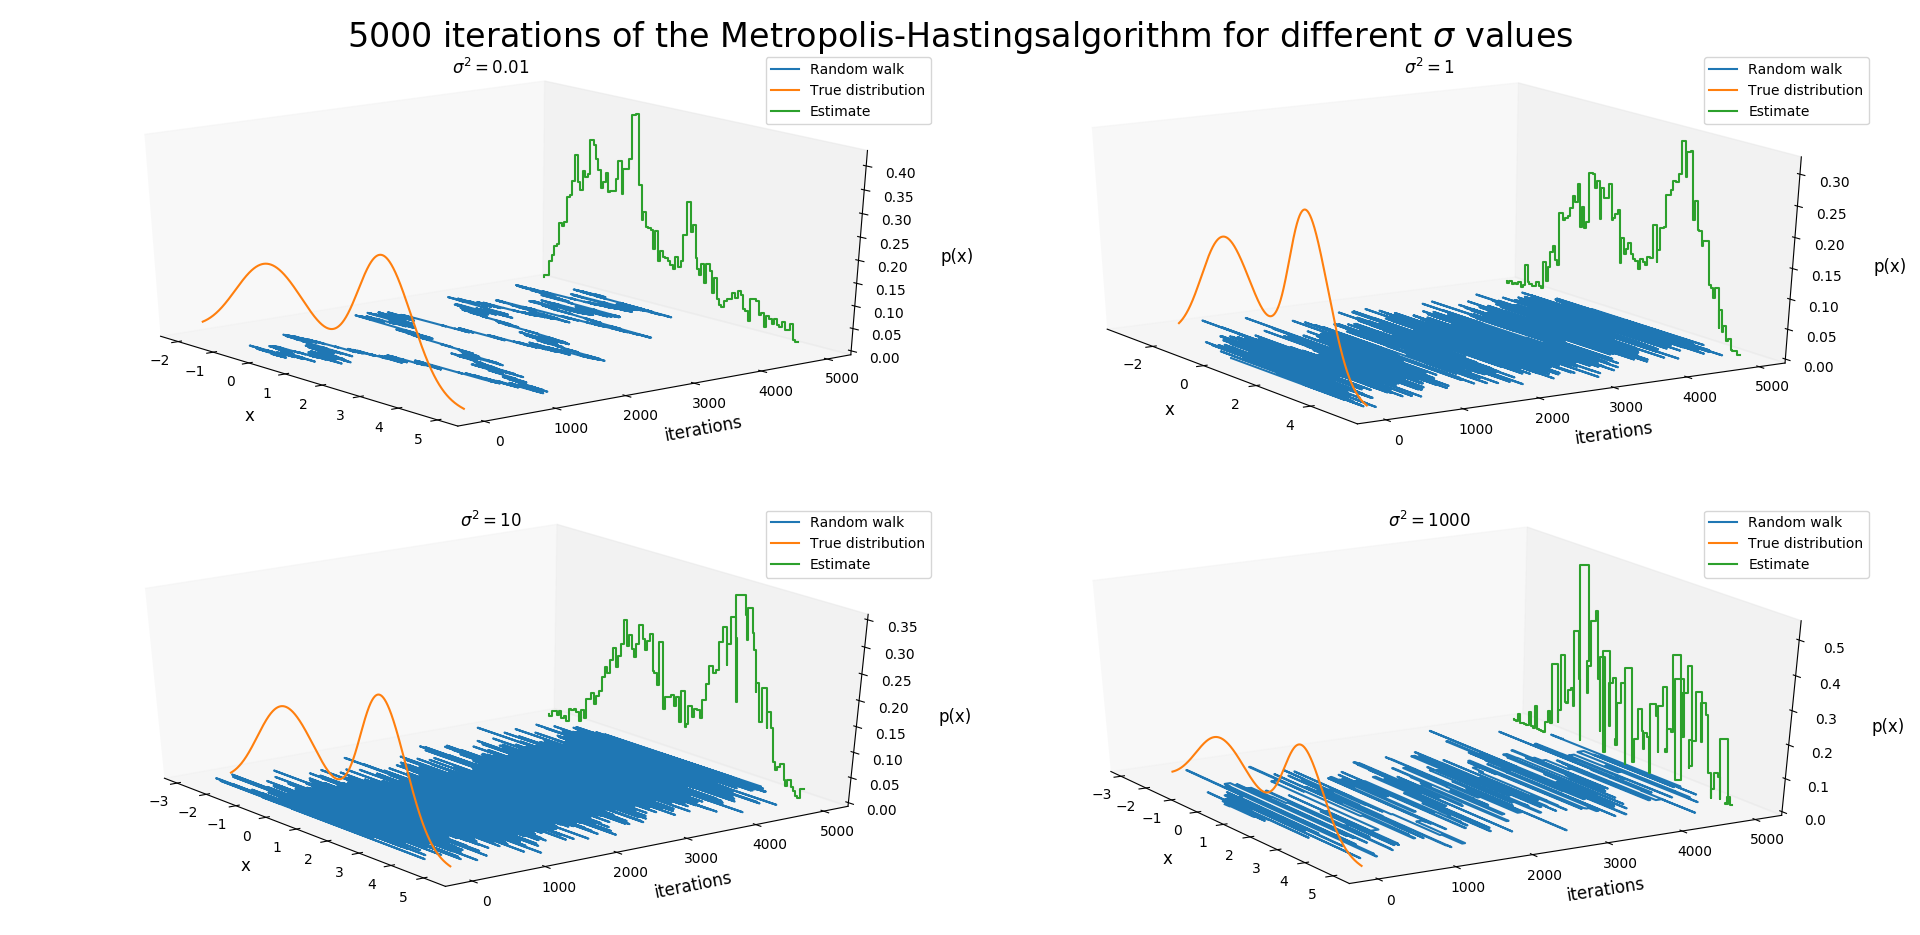
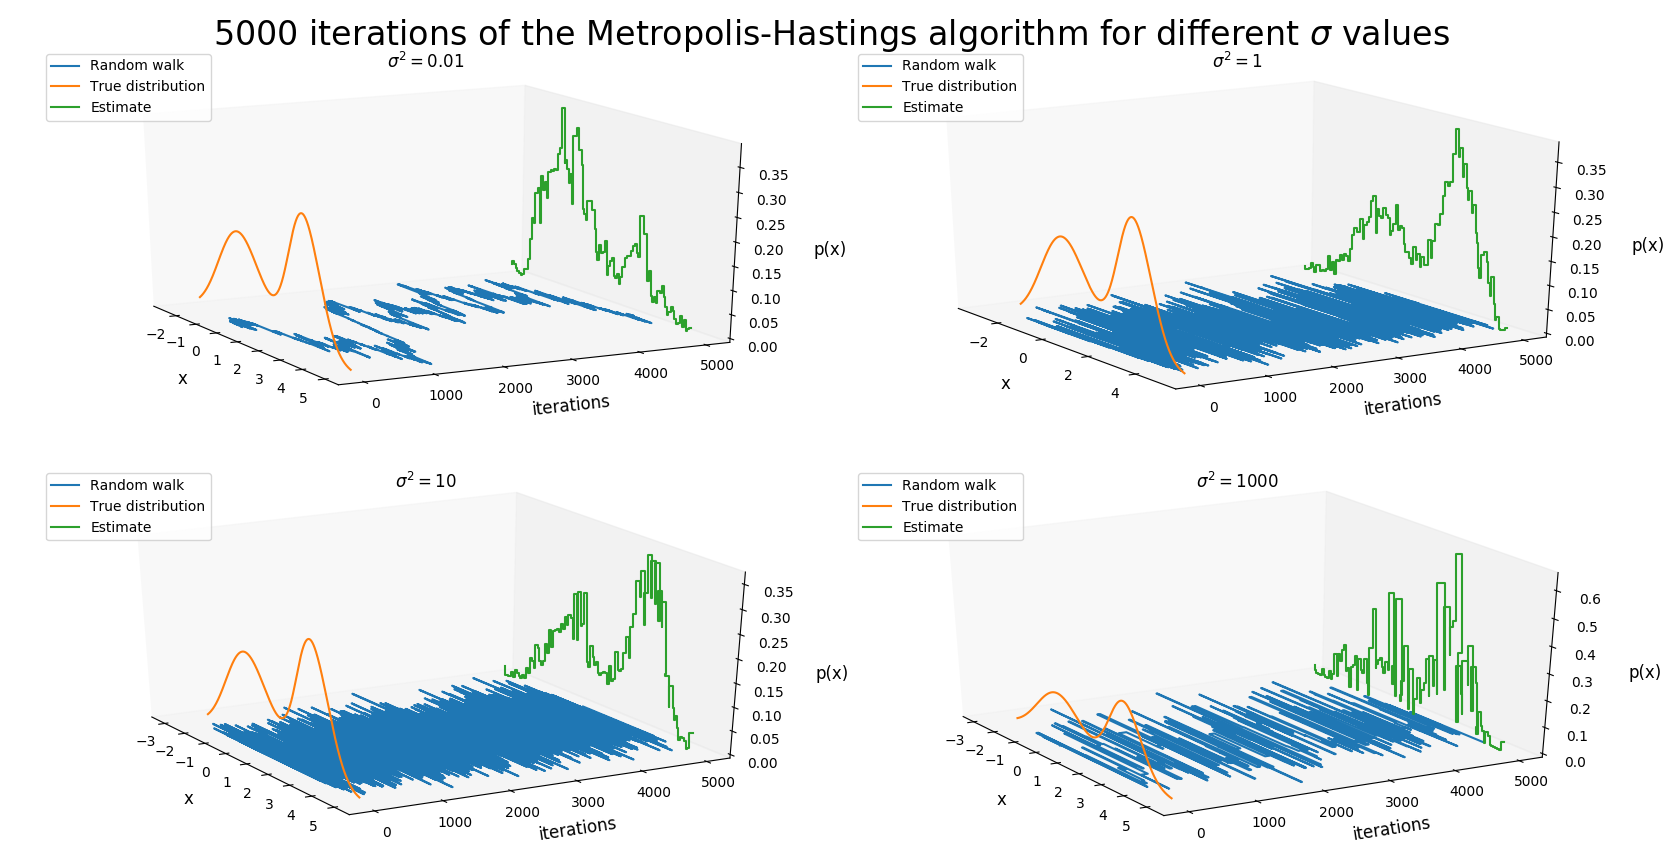
Fix typo in image title

diff --git a/1-sampling/metropolis-hastings.py b/1-sampling/metropolis-hastings.py
@@ -69,13 +69,13 @@ def visualize_results(x, var, ax):
     ax.set_xlabel("x", fontsize=12, labelpad=12)
     ax.set_ylabel("iterations", fontsize=12, labelpad=12)
     ax.set_zlabel("p(x)", fontsize=12, labelpad=12)
-    ax.legend(loc='top left')
+    ax.legend(loc='upper left')
 
 if __name__ == "__main__":    
     N = 5000 # Number of iterations
 
     fig = plt.figure()
-    fig.suptitle("{} iterations of the Metropolis-Hastings"
+    fig.suptitle("{} iterations of the Metropolis-Hastings "
                  "algorithm for different $\sigma$ values".format(N), fontsize=24)
 
     var = 0.01 # Variance of the proposal distribution
